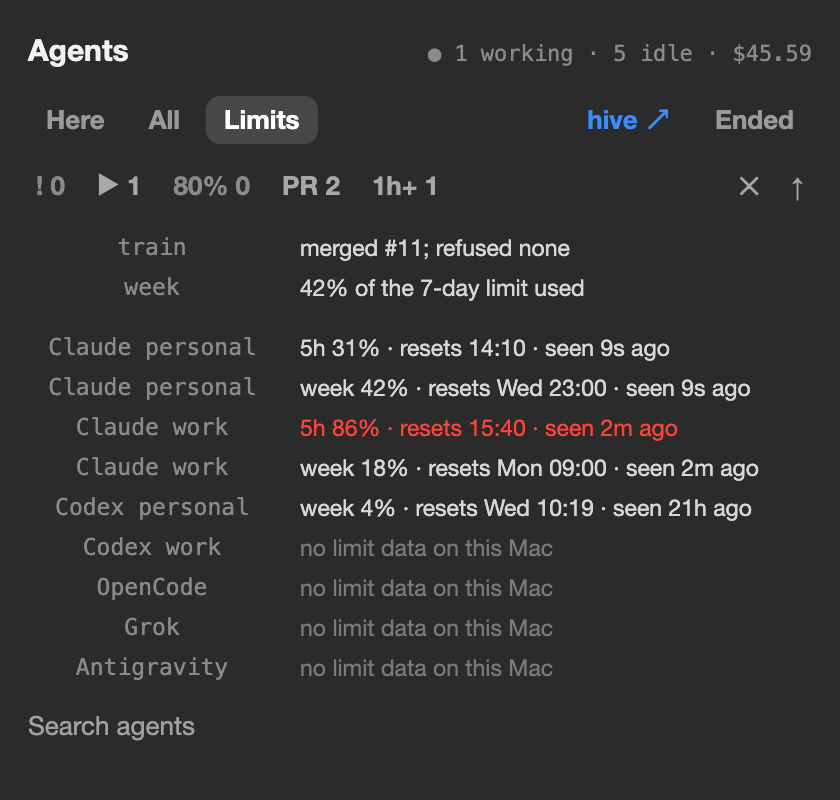
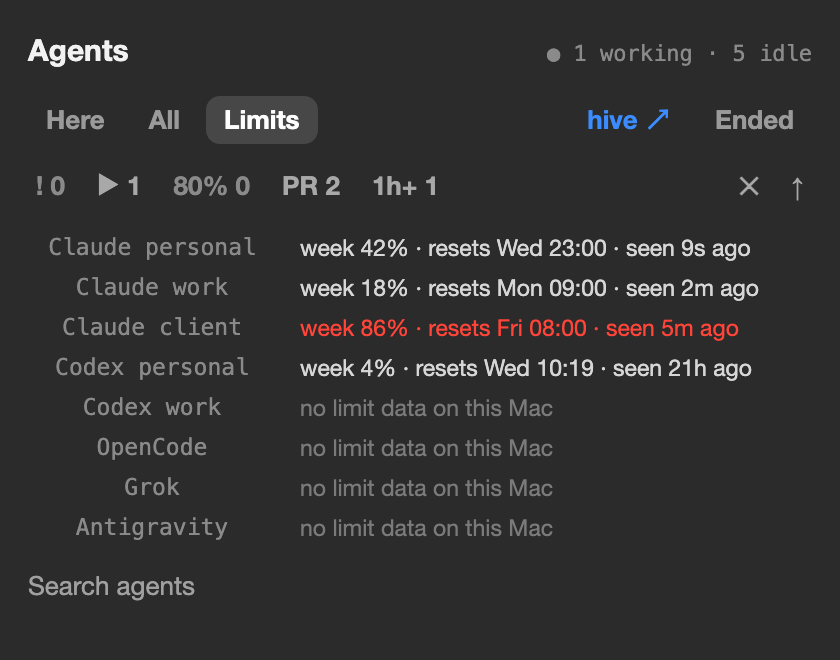
Limits picture: sample account names only, no project strip and no cost
Claude-Session: https://claude.ai/code/session_01HXnduEjBtpWPBqvEBsxN4Z

diff --git a/examples/limits.html b/examples/limits.html
@@ -22,17 +22,13 @@
   .search { margin-top: 14px; color: #a0a0a0; font-size: 13px; }
 </style></head>
 <body>
-  <div class="head"><h1>Agents</h1><span class="mono dim" style="font-size:11px">● 1 working · 5 idle · $45.59</span></div>
+  <div class="head"><h1>Agents</h1><span class="mono dim" style="font-size:11px">● 1 working · 5 idle</span></div>
   <div class="bar"><span>Here</span><span>All</span><span class="on">Limits</span><span class="sp"></span><span class="link">hive ↗</span><span>Ended</span></div>
   <div class="chips"><span class="dim">! 0</span><span>▶ 1</span><span class="dim">80% 0</span><span>PR 2</span><span>1h+ 1</span><span class="sp"></span><span>✕</span><span>↑</span></div>
   <div class="rows">
-    <span class="l">train</span><span>merged #11; refused none</span>
-    <span class="l">week</span><span>42% of the 7-day limit used</span>
-    <span class="gap"></span>
-    <span class="l">Claude personal</span><span>5h 31% · resets 14:10 · seen 9s ago</span>
     <span class="l">Claude personal</span><span>week 42% · resets Wed 23:00 · seen 9s ago</span>
-    <span class="l">Claude work</span><span class="hot">5h 86% · resets 15:40 · seen 2m ago</span>
     <span class="l">Claude work</span><span>week 18% · resets Mon 09:00 · seen 2m ago</span>
+    <span class="l">Claude client</span><span class="hot">week 86% · resets Fri 08:00 · seen 5m ago</span>
     <span class="l">Codex personal</span><span>week 4% · resets Wed 10:19 · seen 21h ago</span>
     <span class="l">Codex work</span><span class="none">no limit data on this Mac</span>
     <span class="l">OpenCode</span><span class="none">no limit data on this Mac</span>

diff --git a/README.md b/README.md
@@ -39,9 +39,9 @@ The pictures use sample names. The panel picture is a drawing of the layout; it 
 
 ![Render of the hive page: workspaces, their sessions, and subagents, with a blue box on the open tab](examples/hive.png)
 
-The `Limits` view with two accounts per tool: one line per tool, account and window, red from 80%. A drawing with sample names, made from `examples/limits.html`.
+The `Limits` view with several accounts: one line per tool and account, red from 80%. A drawing with sample names, made from `examples/limits.html`.
 
-<img src="examples/limits.png" alt="Drawing of the Limits view: rate limits of Claude and Codex for a personal and a work account, with reset times and the age of each figure" width="420">
+<img src="examples/limits.png" alt="Drawing of the Limits view: one rate limit line per tool and account (personal, work, client), with reset times and the age of each figure" width="420">
 
 A tab title, as `label-tabs.py` writes it:
 
